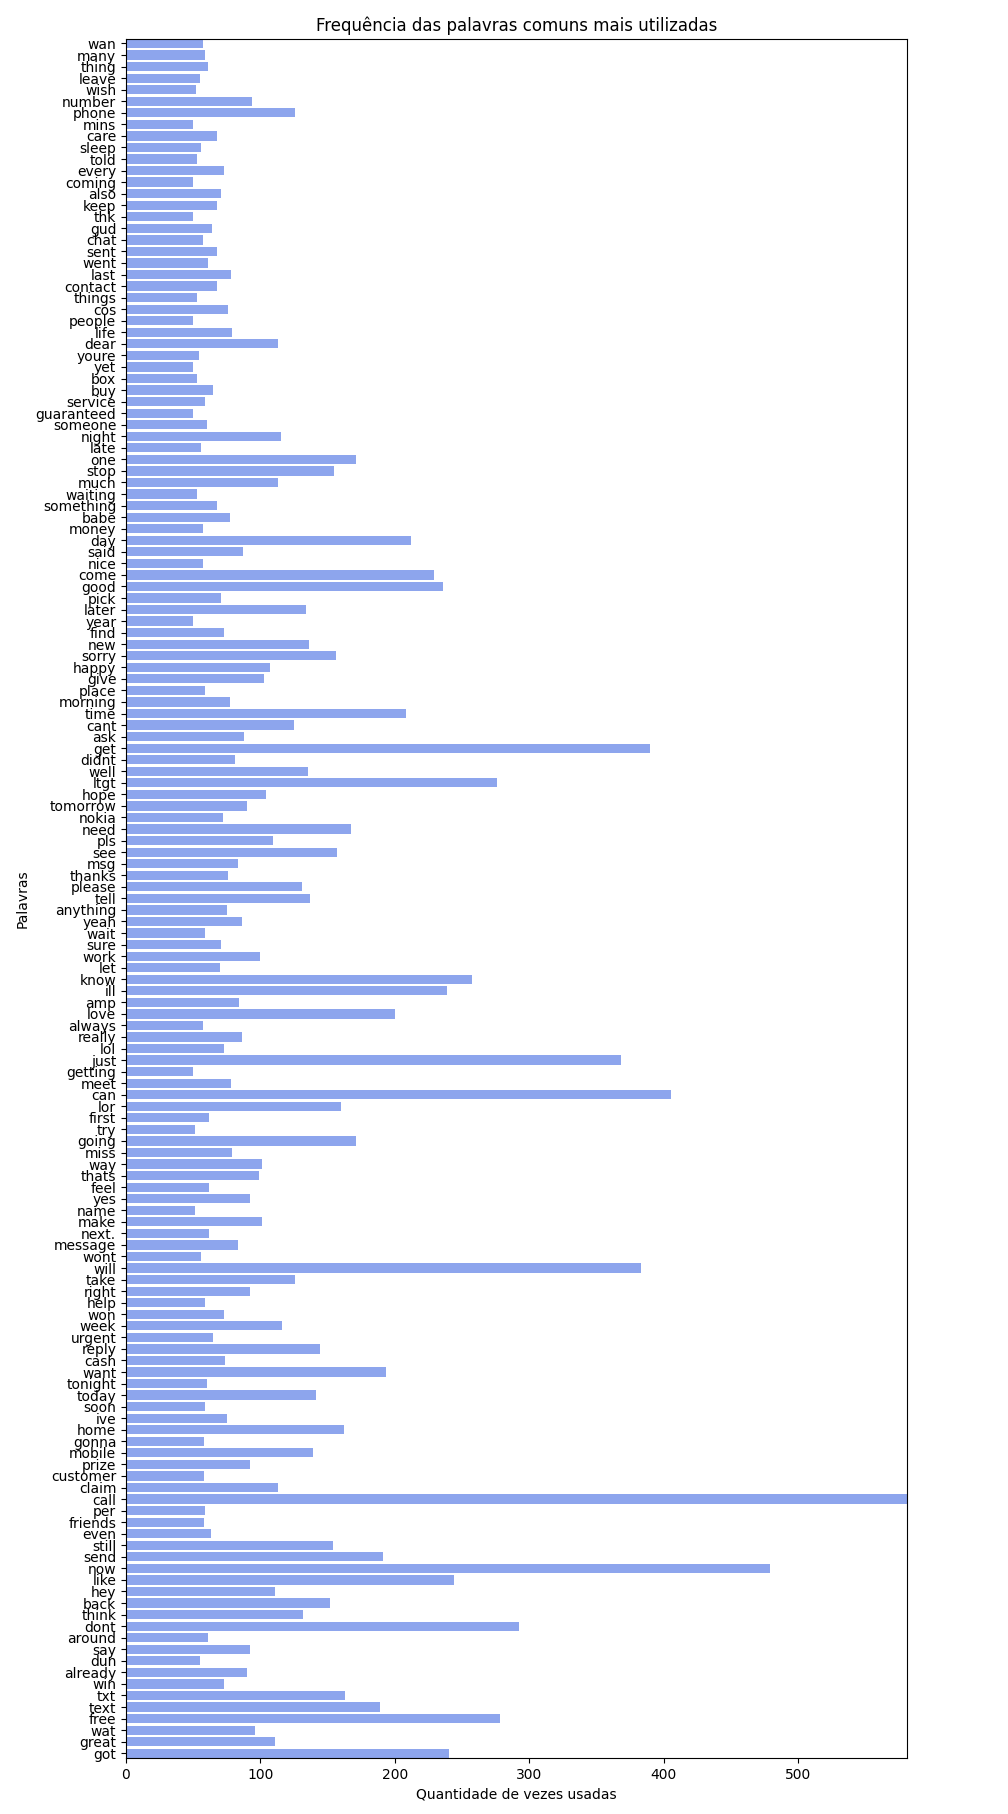
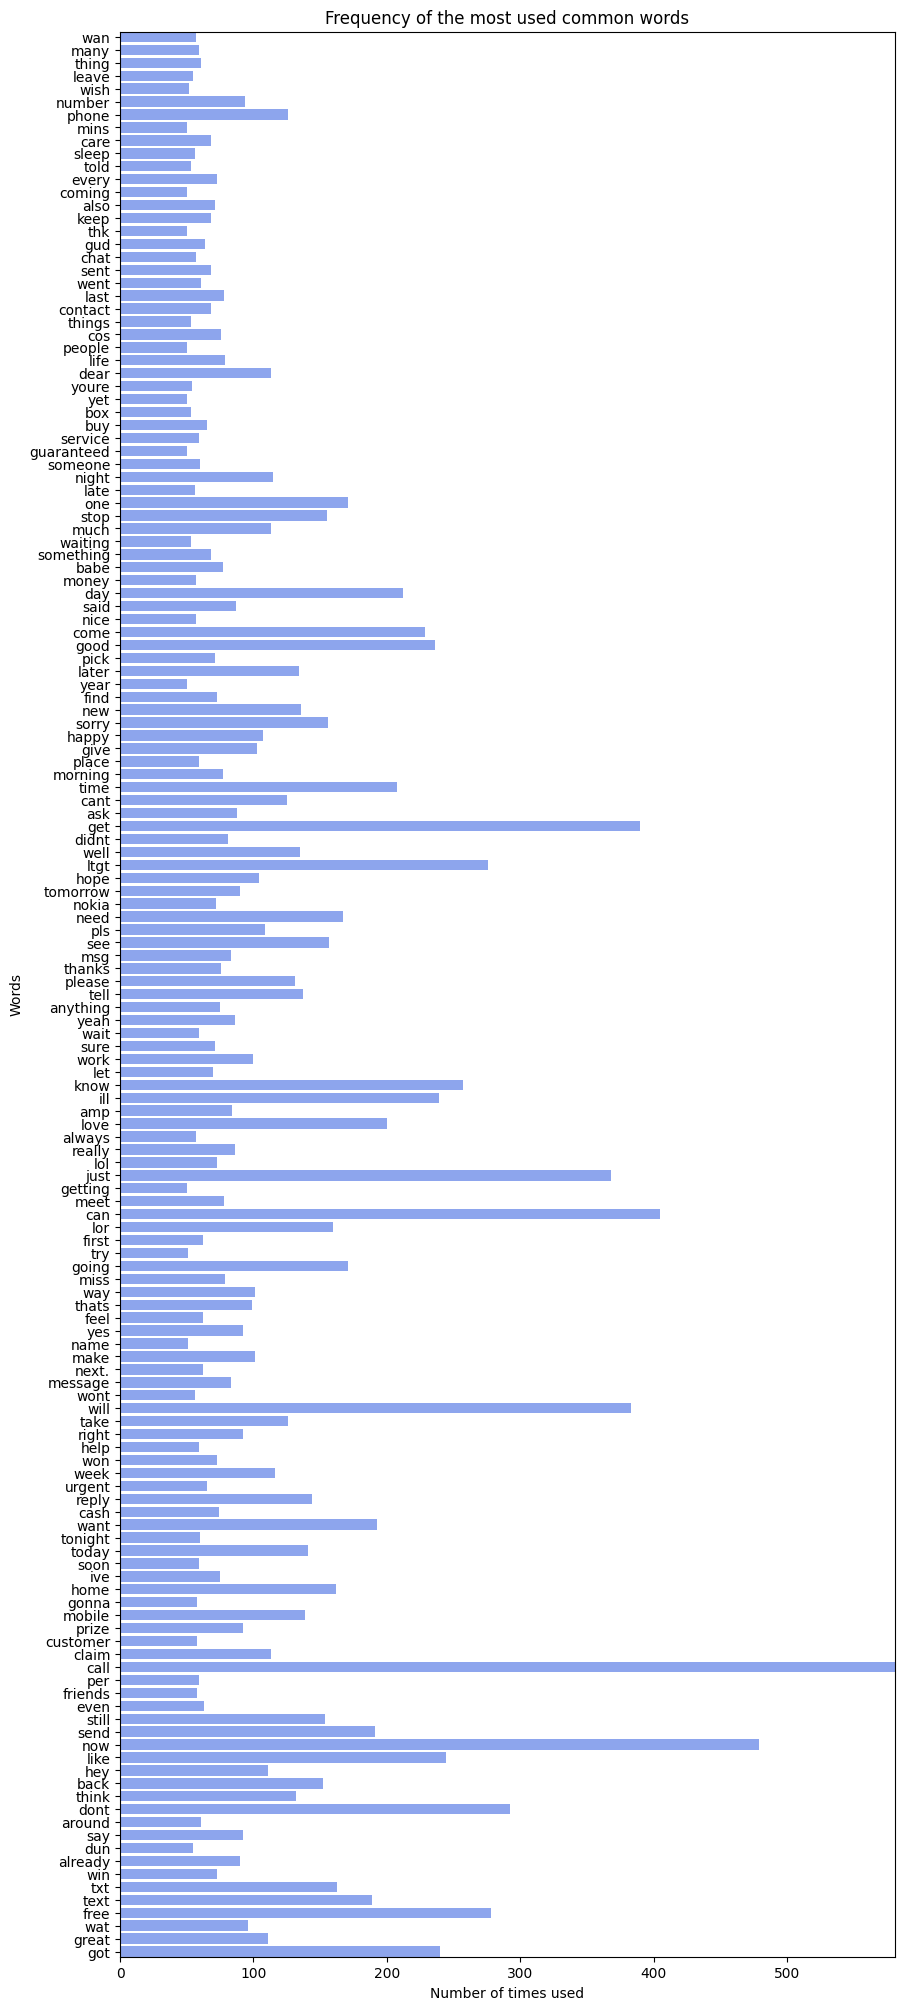
challenge one on first step part2

diff --git a/plot_graphs.py b/plot_graphs.py
@@ -3,10 +3,10 @@
 
 
 import matplotlib.pyplot as plt
+import numpy as np
 
 
 def plot_bar_horizontal(data):
-    
     print('\n---- Frequency of the most used common words -----\n')
     print(data, '\n')
 
@@ -16,9 +16,35 @@ def plot_bar_horizontal(data):
         words.append(item[0])
         frequency.append(item[1])
     
-    plt.barh(words, frequency, alpha = .6, color = "royalblue")
+    plt.figure(figsize=(10,25))
+    plt.barh(words, frequency, alpha = .6, color = 'royalblue')
+    plt.title('Frequency of the most used common words')
     plt.margins(0,0)
-    plt.ylabel('Palavras')
-    plt.xlabel('Quantidade de vezes usadas')
-    plt.title('Frequência das palavras comuns mais utilizadas')
-    plt.show()
+    plt.ylabel('Words')
+    plt.xlabel('Number of times used')
+    plt.savefig('results/words_frequency_sorted.png', bbox_inches='tight')
+
+
+def plot_grouped_bar_vertical(first_month, second_month, third_month):
+    print('\n---- Frequency of message types per month -----\n')
+    print(f'January: Common = {first_month[0]} and Spam = {first_month[1]}')
+    print(f'February: Common = {second_month[0]} and Spam = {second_month[1]}')
+    print(f'March: Common = {third_month[0]} and Spam = {third_month[1]}\n')
+    
+    common = [first_month[0], second_month[0], third_month[0]]
+    spam = [first_month[1], second_month[1], third_month[1]]
+
+    plt.figure(figsize=(10,5))
+
+    bar_width = 0.25
+    r1 = np.arange(len(common))
+    r2 = [x + bar_width for x in r1]
+
+    plt.bar(r1, common, color='royalblue', width=bar_width, label='Comum')
+    plt.bar(r2, spam, color='purple', width=bar_width, label='Spam')
+    plt.title('Frequency of message types per month')
+    plt.ylabel('Number of messages')
+    plt.xlabel('Months')
+    plt.xticks([r + bar_width for r in range(len(common))], ['January', 'February', 'March'])
+    plt.legend(loc="upper right")
+    plt.savefig('results/message_type_month.png', bbox_inches='tight')

diff --git a/main.py b/main.py
@@ -9,6 +9,20 @@ import plot_graphs as plt
 import sys
 
 
+def sum_msgs_months(month_df):
+    count_common = 0
+    count_spam = 0
+    
+    for index, row in month_df.iterrows():
+        if(row['IsSpam'] == 'no'):
+            count_common = count_common + 1
+        else:
+            count_spam = count_spam + 1
+
+    result = [count_common, count_spam]
+    return result
+
+
 def sum_words_frequency(df):
     header = list(df.columns.values)
     
@@ -45,3 +59,14 @@ if __name__ == "__main__":
     
     words_frequency = sum_words_frequency(dataframe)
     plt.plot_bar_horizontal(words_frequency)
+
+    jan = dataframe.loc[(
+        dataframe['Date'] > '2017-01-01 00:00:01') & (dataframe['Date'] <= '2017-01-31 23:59:59')]
+    fev = dataframe.loc[(
+        dataframe['Date'] > '2017-02-01 00:00:01') & (dataframe['Date'] <= '2017-02-31 23:59:59')]
+    mar = dataframe.loc[(
+        dataframe['Date'] > '2017-03-01 00:00:01') & (dataframe['Date'] <= '2017-03-31 23:59:59')]
+    jan_list = sum_msgs_months(jan)
+    fev_list = sum_msgs_months(fev)
+    mar_list = sum_msgs_months(mar)
+    plt.plot_grouped_bar_vertical(jan_list, fev_list, mar_list)
